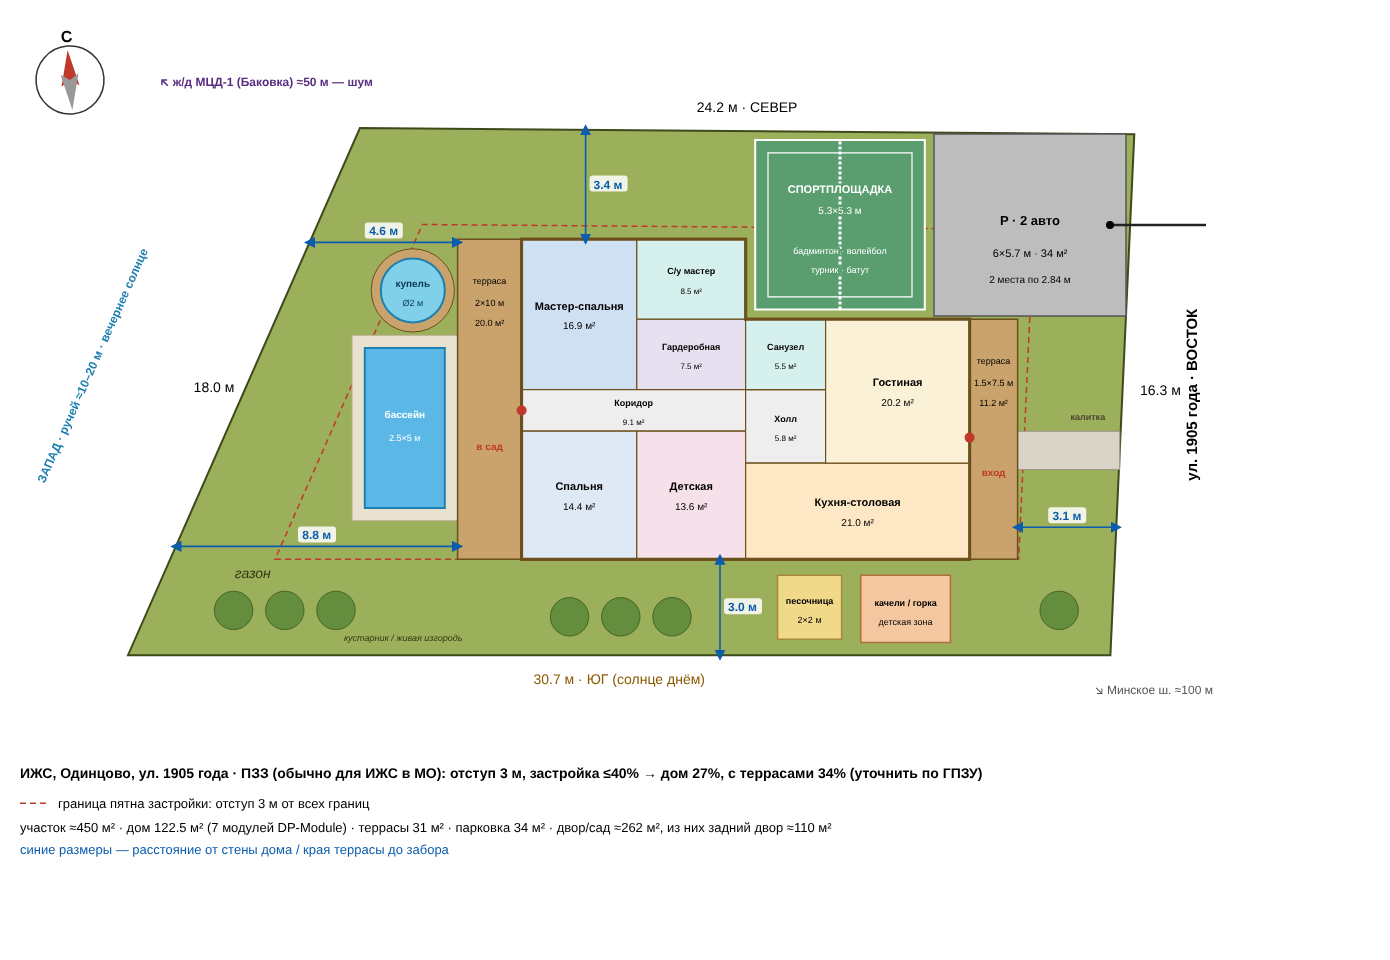
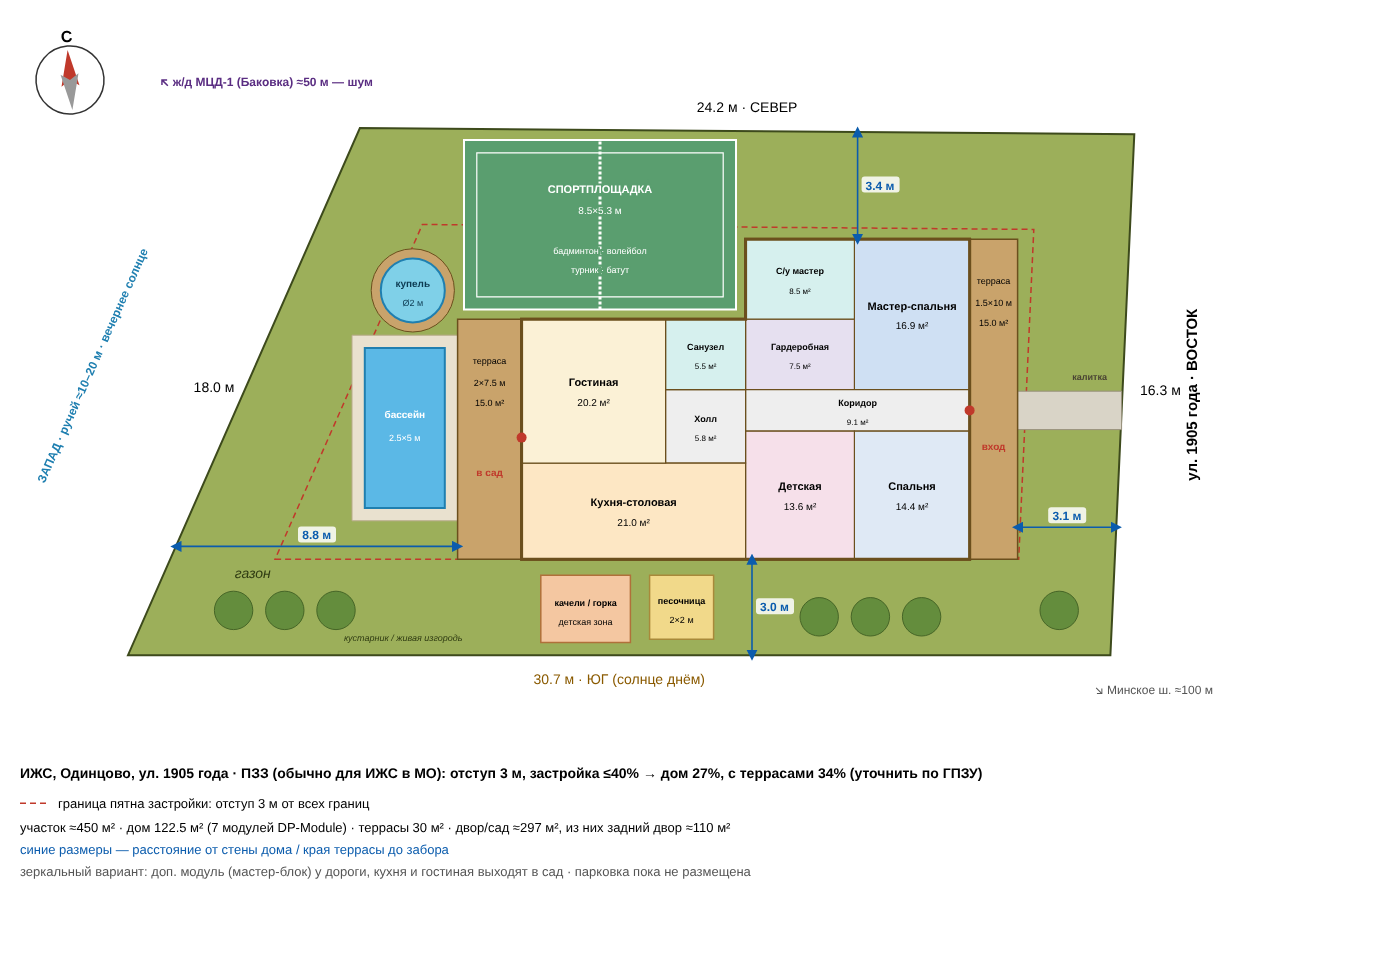
Зеркальный вариант: доп. модуль (мастер-блок) у дороги, парковку пока убрали
- дом отзеркален: мастер-блок ушёл из узкого СЗ угла в СВ угол у дороги,
  кухня-столовая и гостиная выходят на садовую террасу, вход с улицы через коридор
- спортплощадка в освободившейся нише над гостиной: 8.5×5.3 м (было 5.3×5.3)
- детская зона осталась под окнами кухни, живая изгородь — под спальнями
- парковка временно не размещена; экспорт для 3D только по флагу --3d

Claude-Session: https://claude.ai/code/session_017sgqLDmKspX4nF67YoQgaX

diff --git a/plan.py b/plan.py
@@ -1,11 +1,11 @@
-"""Быстрая модель размещения дома (~105 м²) и парковки на 2 машины на участке 4.5 сот."""
+"""Быстрая модель размещения дома (~105 м²) на участке 4.5 сот. Зеркальный вариант: доп. модуль у дороги, парковку пока не ставим."""
 import math
 import os
+import sys
 
 AB, BC, CD, DA, AREA = 30.7, 16.3, 24.2, 18.0, 450.0  # низ, дорога, верх, лево
 SETBACK = 3.0          # отступ дома от границ (по запросу)
 HOUSE_AREA = 105.0
-PARK_W, PARK_D = 6.0, 6.0  # 2 машины рядом с комфортом: 2 места по 3.0 × 6.0 м (36 м²)
 
 
 def shape(a):
@@ -76,31 +76,32 @@ def rect(s, t, w, h):
 
 
 # DP-Module «Модерн 105»: 14 × 7.5 м (6 модулей 7 × 2.5 м) + 1 модуль 7 × 2.5 м под мастер-спальню.
+# Зеркальный вариант: доп. модуль — у дороги (СВ угол, широкая часть участка), а не в узком СЗ углу.
 # Локальные координаты дома: X — вдоль длинной стороны (0 = торец в сад, 14 = торец к дороге),
-# Y — поперёк (0 = сторона парковки).
+# Y — поперёк (0 = южная сторона).
 HOUSE_L = 14.0
-OUTLINE = [(0, 0), (14, 0), (14, 7.5), (7, 7.5), (7, 10), (0, 10)]  # Г-образный контур, 122.5 м²
+OUTLINE = [(0, 0), (14, 0), (14, 10), (7, 10), (7, 7.5), (0, 7.5)]  # Г-образный контур, 122.5 м²
 
 ROOMS = [
-    # мастер-блок (доп. модуль)
-    ("Мастер-спальня", 0.0, 5.3, 3.6, 10.0, "#cfe0f3"),
-    ("Гардеробная", 3.6, 5.3, 7.0, 7.5, "#e6e0f0"),
-    ("С/у мастер", 3.6, 7.5, 7.0, 10.0, "#d6f0ee"),
-    # коридор между спальнями -> выход в сад
-    ("Коридор", 0.0, 4.0, 7.0, 5.3, "#eeeeee"),
-    ("Спальня", 0.0, 0.0, 3.6, 4.0, "#dfe9f5"),
-    ("Детская", 3.6, 0.0, 7.0, 4.0, "#f6e0ea"),
-    # общая зона (вход — с террасы у дороги, отдельной прихожей нет)
-    ("Холл", 7.0, 3.0, 9.5, 5.3, "#eeeeee"),
-    ("Санузел", 7.0, 5.3, 9.5, 7.5, "#d6f0ee"),
-    ("Кухня-столовая", 7.0, 0.0, 14.0, 3.0, "#fde7c4"),
-    ("Гостиная", 9.5, 3.0, 14.0, 7.5, "#fbf1d6"),
+    # мастер-блок (доп. модуль) — у дороги
+    ("Мастер-спальня", 10.4, 5.3, 14.0, 10.0, "#cfe0f3"),
+    ("Гардеробная", 7.0, 5.3, 10.4, 7.5, "#e6e0f0"),
+    ("С/у мастер", 7.0, 7.5, 10.4, 10.0, "#d6f0ee"),
+    # коридор между спальнями — он же вход с улицы
+    ("Коридор", 7.0, 4.0, 14.0, 5.3, "#eeeeee"),
+    ("Спальня", 10.4, 0.0, 14.0, 4.0, "#dfe9f5"),
+    ("Детская", 7.0, 0.0, 10.4, 4.0, "#f6e0ea"),
+    # общая зона — со стороны сада (выход на садовую террасу из гостиной)
+    ("Холл", 4.5, 3.0, 7.0, 5.3, "#eeeeee"),
+    ("Санузел", 4.5, 5.3, 7.0, 7.5, "#d6f0ee"),
+    ("Кухня-столовая", 0.0, 0.0, 7.0, 3.0, "#fde7c4"),
+    ("Гостиная", 0.0, 3.0, 4.5, 7.5, "#fbf1d6"),
 ]
 TERRACES = [
-    ("терраса", 14.0, 0.0, 15.5, 7.5),   # у дороги, во всю стену кухни-столовой и гостиной
-    ("терраса", -2.0, 0.0, 0.0, 10.0),   # в сад, во всю стену спальни, коридора и мастер-спальни
+    ("терраса", 14.0, 0.0, 15.5, 10.0),  # у дороги, во всю стену спальни, коридора и мастер-спальни
+    ("терраса", -2.0, 0.0, 0.0, 7.5),    # в сад, во всю стену кухни-столовой и гостиной
 ]
-DOORS = [("вход", 14.0, 3.8, 14.75, 2.6), ("в сад", 0.0, 4.65, -1.0, 3.4)]
+DOORS = [("вход", 14.0, 4.65, 14.75, 3.4), ("в сад", 0.0, 3.8, -1.0, 2.6)]
 
 
 def overlap(p1, p2, gap=0.0):
@@ -124,7 +125,7 @@ def place(xe, y0):
     return lambda X, Y: (xe - (HOUSE_L - X), y0 + Y)
 
 
-HOUSE_BLOCKS = [(0, 0, 14, 7.5), (0, 7.5, 7, 10)]
+HOUSE_BLOCKS = [(0, 0, 14, 7.5), (7, 7.5, 14, 10)]
 # дом — максимально близко к дороге: дом и обе террасы строго в пятне застройки (3 м от всех границ)
 best = None
 for yi in range(30, 80):
@@ -158,16 +159,6 @@ def line_x_at_y(p, q, y):
 def line_y_at_x(p, q, x):
     return p[1] + (q[1] - p[1]) * (x - p[0]) / (q[0] - p[0])
 
-
-# парковка: в нише над гостиной, вплотную к забору у дороги и к северному забору
-PARK_GAP = 0.1                       # до стены дома / террасы
-park_y0 = local(14, 7.5)[1] + PARK_GAP
-park_x1 = line_x_at_y(B, C, park_y0)  # правый край — по забору у дороги
-park_x0 = park_x1 - PARK_D
-park_y1 = min(line_y_at_x(C, D, park_x1), line_y_at_x(C, D, park_x0))  # верх — по северному забору
-PARK = [(park_x0, park_y0), (park_x1, park_y0), (park_x1, park_y1), (park_x0, park_y1)]
-PARK_W = park_y1 - park_y0
-print(f"парковка {PARK_D:g} × {PARK_W:.2f} м = {PARK_D * PARK_W:.1f} м² (по {PARK_W / 2:.2f} м на машину)")
 
 # ---------- SVG ----------
 xs = [p[0] for p in P]; ys = [p[1] for p in P]
@@ -245,9 +236,8 @@ def ray_to_fence(p, d):
 
 DIMS = [  # (точка в координатах дома, направление) — от стены/террасы до забора
     ((-2.0, 0.4), (-1, 0)),    # сад-терраса, низ
-    ((-2.0, 9.9), (-1, 0)),    # сад-терраса, верх
-    ((6.2, 0.0), (0, -1)),     # спальни -> нижний забор
-    ((2.0, 10.0), (0, 1)),     # мастер-блок -> верхний забор
+    ((7.2, 0.0), (0, -1)),     # дом -> нижний забор
+    ((10.5, 10.0), (0, 1)),    # мастер-блок -> верхний забор
     ((15.5, 1.0), (1, 0)),     # терраса у дороги -> забор у дороги
 ]
 DIM_SVG = []
@@ -278,25 +268,25 @@ def lbl(X, Y, s, size=10, **kw):
 
 LEISURE = {
     "pool": (-4.9, 1.6, -2.4, 6.6),      # бассейн 2.5 × 5 м у садовой террасы
-    "tub": (-3.4, 8.4, 1.0),             # купель Ø2 м у мастер-спальни (центр X, Y, радиус)
-    "sport": (7.3, 7.8, 13.8, 13.0),     # спортплощадка в нише над санузлом/гостиной
-    "sand": (8.0, -2.5, 10.0, -0.5),     # песочница 2 × 2 м под окнами кухни
-    "swing": (10.6, -2.6, 13.4, -0.5),   # качели/горка
-    "path": (15.5, 2.8, 19.9, 4.0),      # дорожка от калитки ко входу
+    "tub": (-3.4, 8.4, 1.0),             # купель Ø2 м у садовой террасы (центр X, Y, радиус)
+    "sport": (-1.8, 7.8, 6.7, 13.0),     # спортплощадка в освободившейся нише над гостиной/санузлом
+    "sand": (4.0, -2.5, 6.0, -0.5),      # песочница 2 × 2 м под окнами кухни
+    "swing": (0.6, -2.6, 3.4, -0.5),     # качели/горка
+    "path": (15.5, 4.05, 19.9, 5.25),    # дорожка от калитки ко входу
 }
 HX0 = xe - HOUSE_L  # x торца дома в саду
-_sx1 = park_x0 - 0.3 - HX0
-_sy1 = line_y_at_x(C, D, HX0 + 7.3) - 0.3 - y0
-LEISURE["sport"] = (7.3, 7.8, round(_sx1, 1), round(_sy1, 1))
-LEISURE["path"] = (15.5, 2.8, line_x_at_y(B, C, y0 + 3.4) - HX0, 4.0)
+_sy1 = min(line_y_at_x(C, D, HX0 - 1.8), line_y_at_x(C, D, HX0 + 6.7)) - 0.3 - y0
+LEISURE["sport"] = (-1.8, 7.8, 6.7, round(_sy1, 1))
+LEISURE["path"] = (15.5, 4.05, line_x_at_y(B, C, y0 + 4.65) - HX0, 5.25)
 LS = []
 x0, y0_, x1, y1 = LEISURE["path"]
 LS.append(lrect_svg(x0, y0_, x1, y1, fill="#d9d4c7", stroke="#9a927e", stroke_width=1))
 gx, gy = local(x1 - 0.4, (y0_ + y1) / 2)
 LS.append(text(local(x1 - 1.0, y1 + 0.35), "калитка", 9, fill="#4a4434", font_weight="bold"))
 # кустарник / живая изгородь у южного забора (≥1 м от забора; высокие деревья — не ближе 4 м к соседу)
-for X, Y, r in [(-9.0, -1.6, 0.6), (-7.4, -1.6, 0.6), (-5.8, -1.6, 0.6), (1.5, -1.8, 0.6), (3.1, -1.8, 0.6),
-                (4.7, -1.8, 0.6), (16.8, -1.6, 0.6)]:
+SHRUBS = [(-9.0, -1.6, 0.6), (-7.4, -1.6, 0.6), (-5.8, -1.6, 0.6), (9.3, -1.8, 0.6), (10.9, -1.8, 0.6),
+          (12.5, -1.8, 0.6), (16.8, -1.6, 0.6)]
+for X, Y, r in SHRUBS:
     cx, cy = sv(local(X, Y))
     LS.append(f'<circle cx="{cx:.1f}" cy="{cy:.1f}" r="{r * SC:.1f}" fill="#5f8a3a" stroke="#3d5e22" stroke-width="1" opacity="0.9"/>')
 # спортплощадка
@@ -338,7 +328,7 @@ for k, v in LEISURE.items():
     poly = lrect(v[0] - v[2], v[1] - v[2], v[0] + v[2], v[1] + v[2]) if k == "tub" else lrect(*v)
     ok_in = all(inside(P, c) for c in poly)
     hits = [i for i, b in enumerate(_house_blocks) if overlap(b, poly, 0.0)] if k != "path" else []
-    print(f"{k}: внутри участка={ok_in}, пересечения с домом/террасами={hits}, с парковкой={overlap(PARK, poly)}, "
+    print(f"{k}: внутри участка={ok_in}, пересечения с домом/террасами={hits}, "
           f"мин. до забора={min(min(dist_to_line_any(c) for c in poly) for _ in [0]):.2f} м")
 
 def clip_left(poly, xl):
@@ -358,23 +348,19 @@ BACKYARD = area(clip_left(P, xe - HOUSE_L - 2.0))
 print(f"задний двор (западнее садовой террасы): {BACKYARD:.0f} м²")
 
 TERR_AREA = sum(abs((t[3] - t[1]) * (t[4] - t[2])) for t in TERRACES)
-FREE = area(P) - HOUSE_AREA - TERR_AREA - PARK_W * PARK_D
+FREE = area(P) - HOUSE_AREA - TERR_AREA
 
-W, H = (maxx - minx) * SC, (maxy - miny) * SC + 90
+W, H = (maxx - minx) * SC, (maxy - miny) * SC + 112
 el = [
     f'<svg xmlns="http://www.w3.org/2000/svg" width="{W:.0f}" height="{H:.0f}" viewBox="0 0 {W:.0f} {H:.0f}">',
     f'<rect width="100%" height="100%" fill="#fff"/>',
     poly_svg(P, fill="#9caf5a", stroke="#3d4a1c", stroke_width=2),
     poly_svg(BUILD, fill="none", stroke="#c0392b", stroke_width=1.5, stroke_dasharray="6 4"),
-    poly_svg(PARK, fill="#bdbdbd", stroke="#555", stroke_width=1.5),
     '<defs><marker id="arr" viewBox="0 0 10 10" refX="5" refY="5" markerWidth="7" markerHeight="7" orient="auto-start-reverse">'
     '<path d="M0,0 L10,5 L0,10 z" fill="#0b5cad"/></marker></defs>',
     *LS,
     *ROOMS_SVG,
     *DIM_SVG,
-    text(centroid(PARK), "P · 2 авто", 13, font_weight="bold"),
-    text((centroid(PARK)[0], centroid(PARK)[1] - 1.0), f"{PARK_D:g}×{PARK_W:.1f} м · {PARK_D * PARK_W:.0f} м²", 11),
-    text((centroid(PARK)[0], centroid(PARK)[1] - 1.8), f"2 места по {PARK_W / 2:.2f} м", 10),
     text(mid(A, B, -0.9), f"{AB} м · ЮГ (солнце днём)", 14, fill="#8a5a00"),
     text(mid(C, D, 0.6), f"{CD} м · СЕВЕР", 14),
     text(mid(D, A, 0), f"{DA} м", 14, transform=""),
@@ -382,9 +368,6 @@ el = [
 ]
 mx, my = sv(mid(D, A)); el[-2] = f'<text x="{mx-30:.1f}" y="{my:.1f}" font-size="14" text-anchor="middle" font-family="sans-serif">{DA} м</text>'
 mx, my = sv(mid(B, C)); el[-1] = f'<text x="{mx+38:.1f}" y="{my:.1f}" font-size="14" text-anchor="middle" font-family="sans-serif">{BC} м</text><text x="{mx+75:.1f}" y="{my:.1f}" font-size="15" font-weight="bold" text-anchor="middle" font-family="sans-serif" transform="rotate(-90 {mx+75:.1f} {my:.1f})">ул. 1905 года · ВОСТОК</text>'
-# стрелка въезда
-e1 = sv((park_x1 + 2.5, (park_y0 + park_y1) / 2)); e2 = sv((park_x1 - 0.5, (park_y0 + park_y1) / 2))
-el.append(f'<line x1="{e1[0]:.1f}" y1="{e1[1]:.1f}" x2="{e2[0]:.1f}" y2="{e2[1]:.1f}" stroke="#222" stroke-width="2.5"/><circle cx="{e2[0]:.1f}" cy="{e2[1]:.1f}" r="4"/>')
 el.append(text((3.9, 2.4), "газон", 14, fill="#2f3b12", font_style="italic"))
 el.append(text((8.6, 0.45), "кустарник / живая изгородь", 9, fill="#2f3b12", font_style="italic"))
 
@@ -407,9 +390,10 @@ y0 = (maxy - miny) * SC + 25
 el.append(f'<rect x="20" y="{y0-12}" width="28" height="0" stroke="#c0392b" stroke-dasharray="6 4" stroke-width="1.5"/>')
 el.append(f'<line x1="20" y1="{y0-5}" x2="50" y2="{y0-5}" stroke="#c0392b" stroke-dasharray="6 4" stroke-width="1.5"/>')
 el.append(f'<text x="58" y="{y0}" font-size="13" font-family="sans-serif">граница пятна застройки: отступ {SETBACK:g} м от всех границ</text>')
-el.append(f'<text x="20" y="{y0+24}" font-size="13" font-family="sans-serif">участок ≈{area(P):.0f} м² · дом {HOUSE_AREA:.1f} м² (7 модулей DP-Module) · террасы {TERR_AREA:.0f} м² · парковка {PARK_W*PARK_D:.0f} м² · двор/сад ≈{FREE:.0f} м², из них задний двор ≈{BACKYARD:.0f} м²</text>')
+el.append(f'<text x="20" y="{y0+24}" font-size="13" font-family="sans-serif">участок ≈{area(P):.0f} м² · дом {HOUSE_AREA:.1f} м² (7 модулей DP-Module) · террасы {TERR_AREA:.0f} м² · двор/сад ≈{FREE:.0f} м², из них задний двор ≈{BACKYARD:.0f} м²</text>')
 el.append(f'<text x="20" y="{y0-30}" font-size="14" font-weight="bold" font-family="sans-serif">ИЖС, Одинцово, ул. 1905 года · ПЗЗ (обычно для ИЖС в МО): отступ 3 м, застройка ≤40% → дом {HOUSE_AREA/area(P)*100:.0f}%, с террасами {(HOUSE_AREA+TERR_AREA)/area(P)*100:.0f}% (уточнить по ГПЗУ)</text>')
 el.append(f'<text x="20" y="{y0+46}" font-size="13" fill="#0b5cad" font-family="sans-serif">синие размеры — расстояние от стены дома / края террасы до забора</text>')
+el.append(f'<text x="20" y="{y0+68}" font-size="13" fill="#555" font-family="sans-serif">зеркальный вариант: доп. модуль (мастер-блок) у дороги, кухня и гостиная выходят в сад · парковка пока не размещена</text>')
 el.append("</svg>")
 open("plan.svg", "w").write("\n".join(el))
 
@@ -427,9 +411,10 @@ print("террасы внутри пятна:", [all(inside(BUILD, c) for c in 
 print("сумма комнат:", sum(abs((r[3]-r[1])*(r[4]-r[2])) for r in ROOMS))
 
 # ---------- экспорт геометрии для 3D-визуализации (render3d/) ----------
+# 3D пока не обновляем (render3d/scene.js рассчитан на вариант с парковкой) — экспорт только по флагу --3d
+if "--3d" not in sys.argv:
+    sys.exit()
 import json
-SHRUBS = [(-9.0, -1.6, 0.6), (-7.4, -1.6, 0.6), (-5.8, -1.6, 0.6), (1.5, -1.8, 0.6), (3.1, -1.8, 0.6),
-          (4.7, -1.8, 0.6), (16.8, -1.6, 0.6)]
 scene = {
     "plot": [list(p) for p in P],
     "road": {"B": list(B), "C": list(C)},
@@ -437,7 +422,6 @@ scene = {
     "house": {"x0": local(0, 0)[0], "y0": local(0, 0)[1], "outline": OUTLINE, "rooms": ROOMS, "blocks": HOUSE_BLOCKS},
     "terraces": [list(t) for t in TERRACES],
     "doors": DOORS,
-    "parking": [list(p) for p in PARK],
     "leisure": LEISURE,
     "shrubs": SHRUBS,
 }
